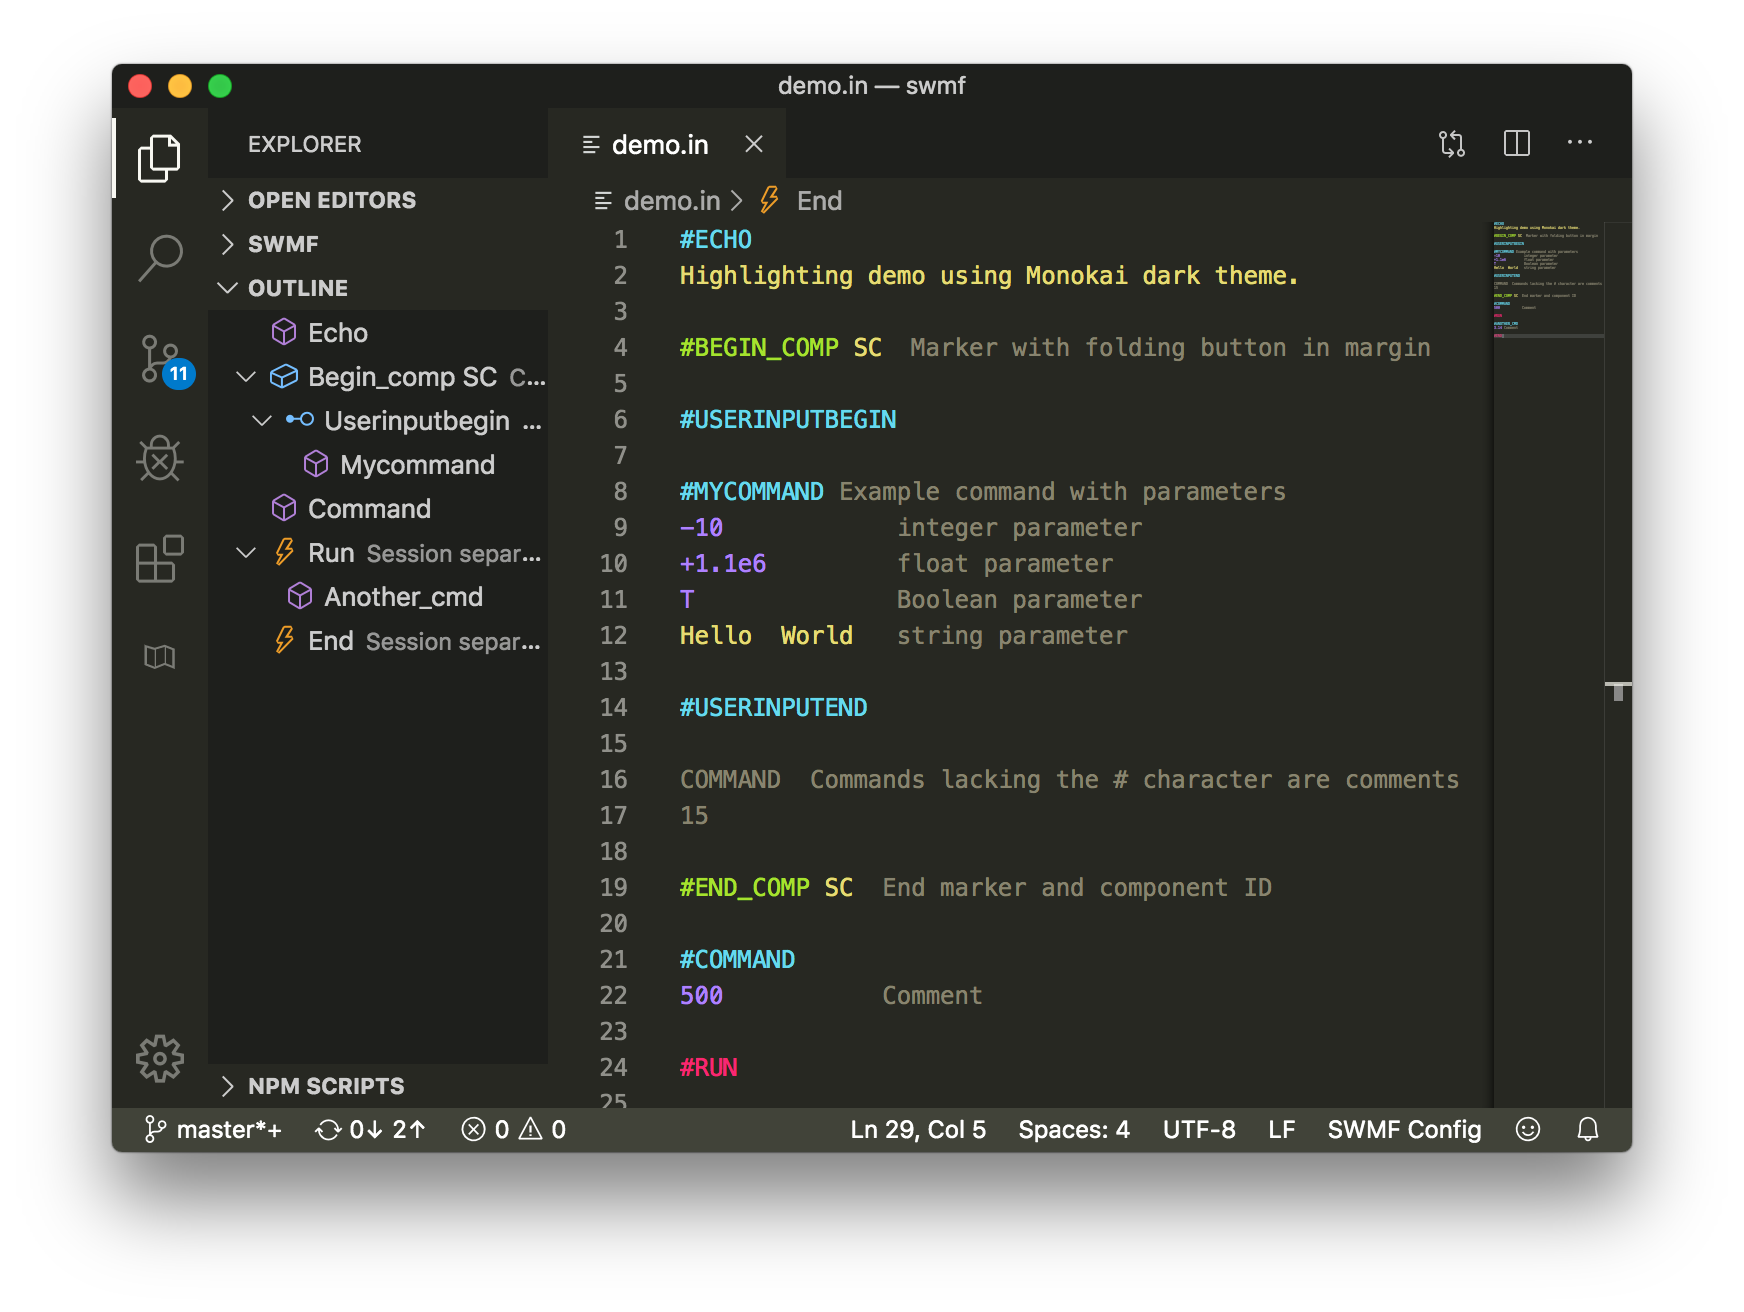
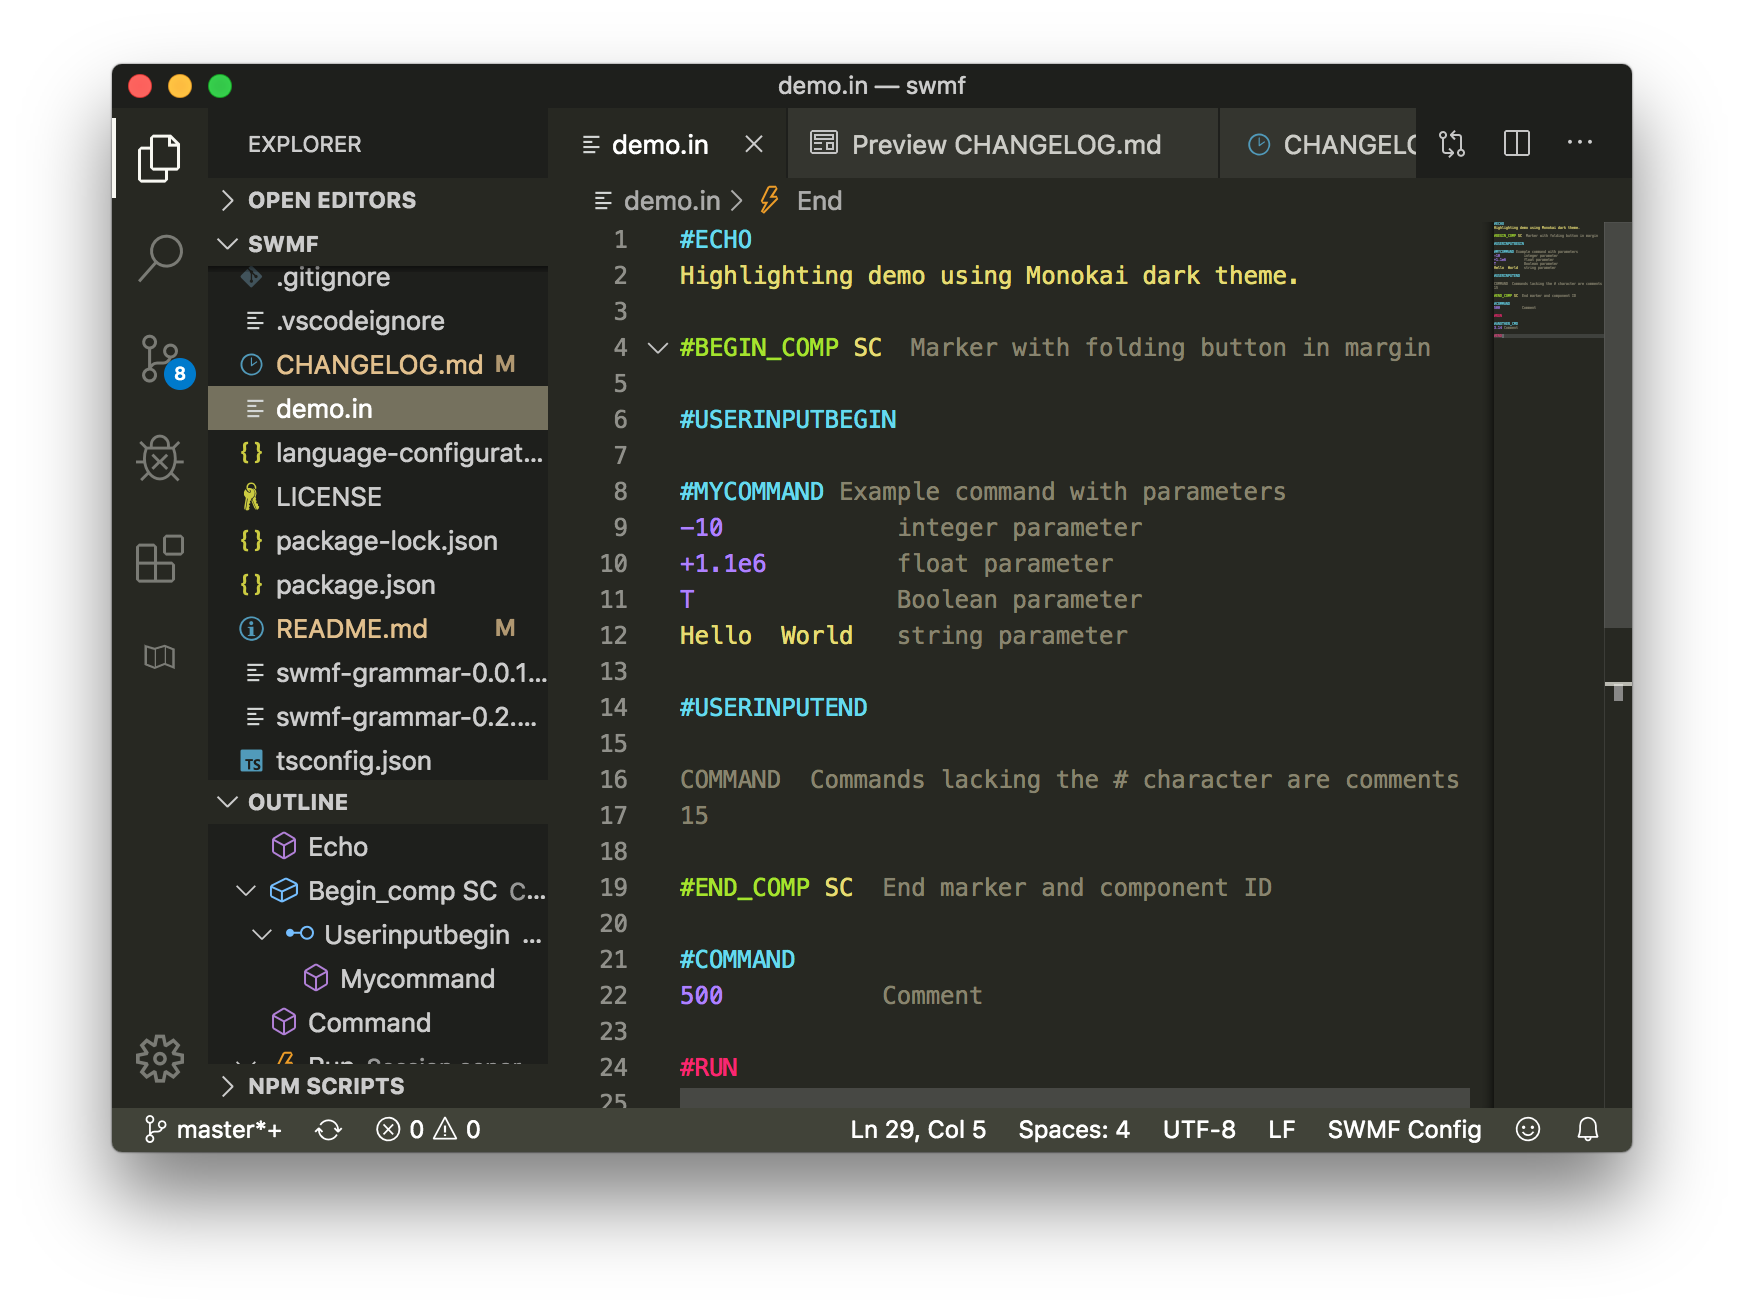
Update readme with new features

diff --git a/CHANGELOG.md b/CHANGELOG.md
@@ -7,5 +7,7 @@ Check [Keep a Changelog](http://keepachangelog.com/) for recommendations on how 
 ## [Unreleased]
 ### 0.0.1 
 Initial release with syntax highlighting.
-### 0.0.2 
+### 0.2.0 
 Added hierarchical outline view.
+### 0.2.1 
+Fixed image in README to reflect new features.

diff --git a/README.md b/README.md
@@ -6,7 +6,7 @@ Automatically highlights files ending in `.in` and `.IN`.
 
 A document tree is also provided in the outline view.
 
-![highlight and folding demo](images/highlight-demo.png)
+![highlight and folding demo](images/demo.png)
 
 ## Features
 
